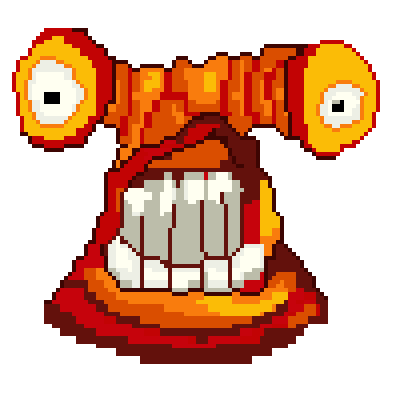
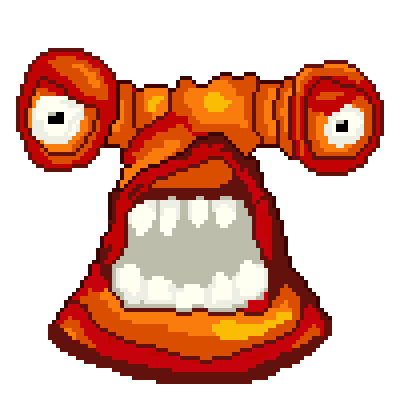
Character Sprites adjusted

diff --git a/WheelChairCollaborativeGame/WheelChairCollaborativeGame/GameObjects/HumanCharacter.cs b/WheelChairCollaborativeGame/WheelChairCollaborativeGame/GameObjects/HumanCharacter.cs
@@ -13,7 +13,7 @@ namespace WheelChairCollaborativeGame.GameObjects
     {
         public HumanCharacter(String message, GameEnhanced game, string tag)
             : base(message, game, tag)
-        {            
+        {
             Position = new Vector2(Config.resolution.X - 50 - 125, 50);
         }
 
@@ -21,10 +21,7 @@ namespace WheelChairCollaborativeGame.GameObjects
         {
             base.LoadContent();
 
-            Sprite = new WheelChairGameLibrary.Sprites.Sprite(this, Game.Content.Load<Texture2D>("characters"), 1);
-             
-
-            Sprite.ActiveSpriteAnimation = new SpriteAnimation(new SpriteAnimationData[] { new SpriteAnimationData(251, 0, 125, 125, 0, 0) });
+            Sprite = new WheelChairGameLibrary.Sprites.Sprite(this, Game.Content.Load<Texture2D>("CharHuman"), 1);
         }
 
         public override void Draw(GameTime gameTime)

diff --git a/WheelChairCollaborativeGame/WheelChairCollaborativeGame/GameObjects/AlienCharacter.cs b/WheelChairCollaborativeGame/WheelChairCollaborativeGame/GameObjects/AlienCharacter.cs
@@ -22,9 +22,7 @@ namespace WheelChairCollaborativeGame.GameObjects
         {
             base.LoadContent();
 
-            Sprite = new WheelChairGameLibrary.Sprites.Sprite(this, Game.Content.Load<Texture2D>("characters"), 1);
-
-            Sprite.ActiveSpriteAnimation = new SpriteAnimation(new SpriteAnimationData[] { new SpriteAnimationData(376, 251, 125, 125, 0, 0) });
+            Sprite = new WheelChairGameLibrary.Sprites.Sprite(this, Game.Content.Load<Texture2D>("CharAlien"), 1);
         }
 
         public override void Draw(GameTime gameTime)
